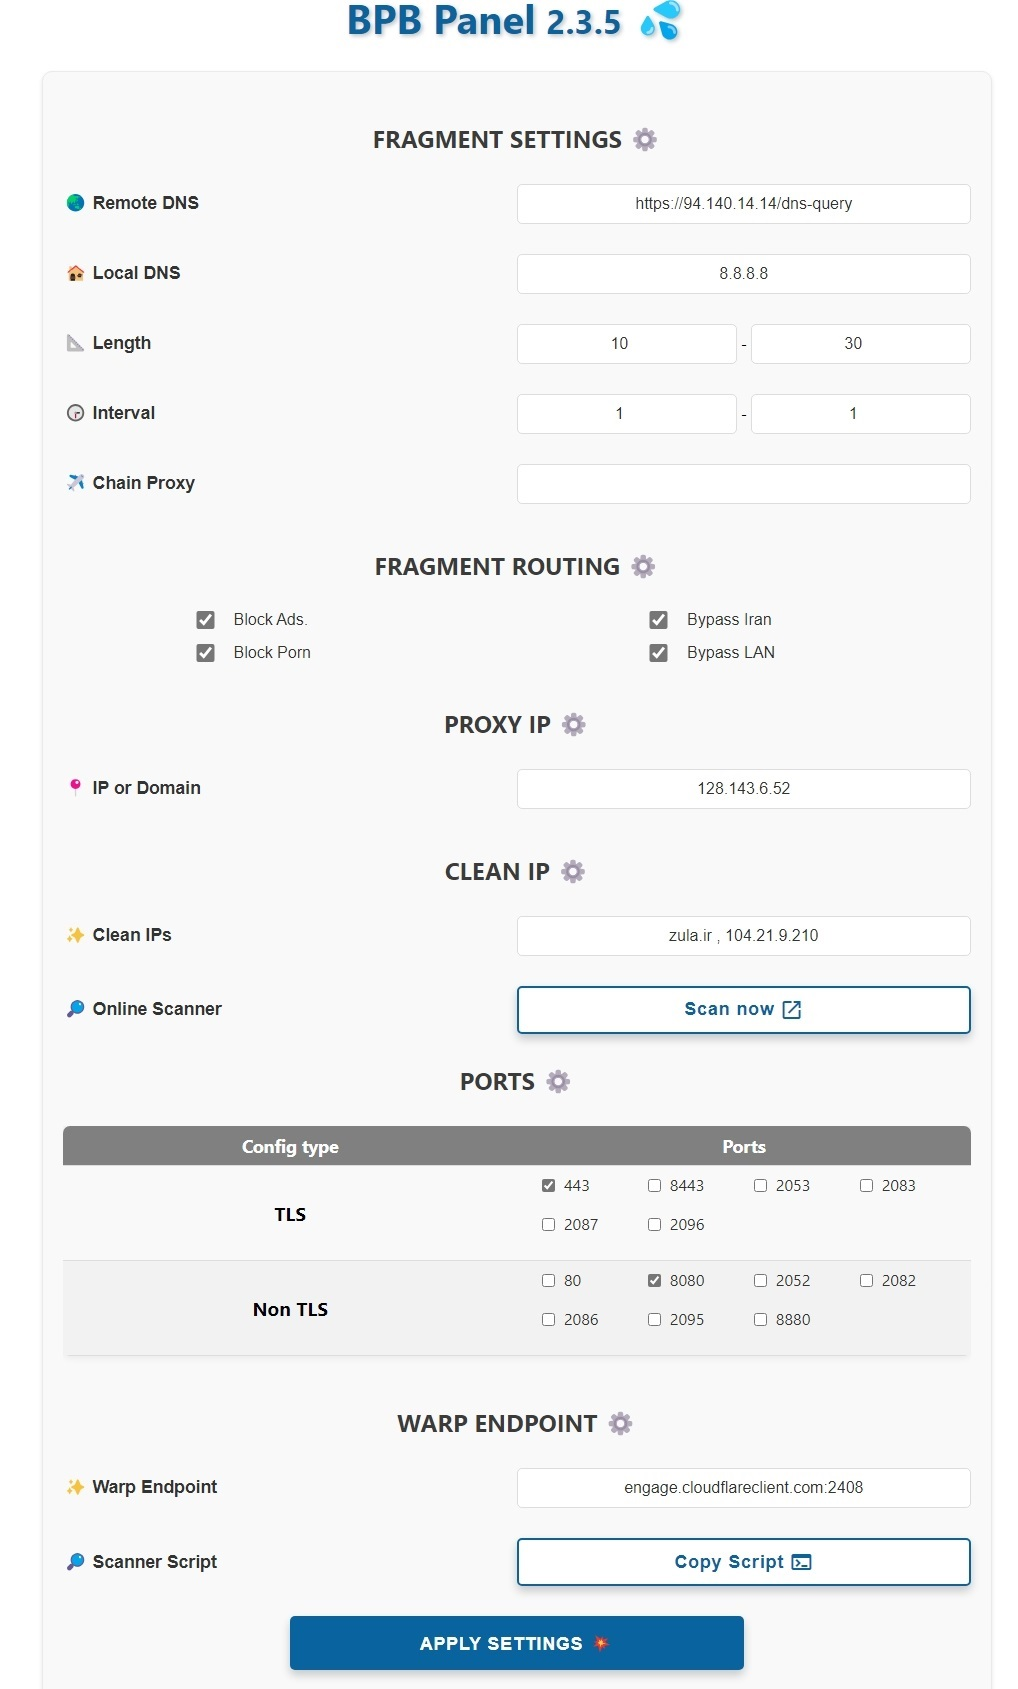
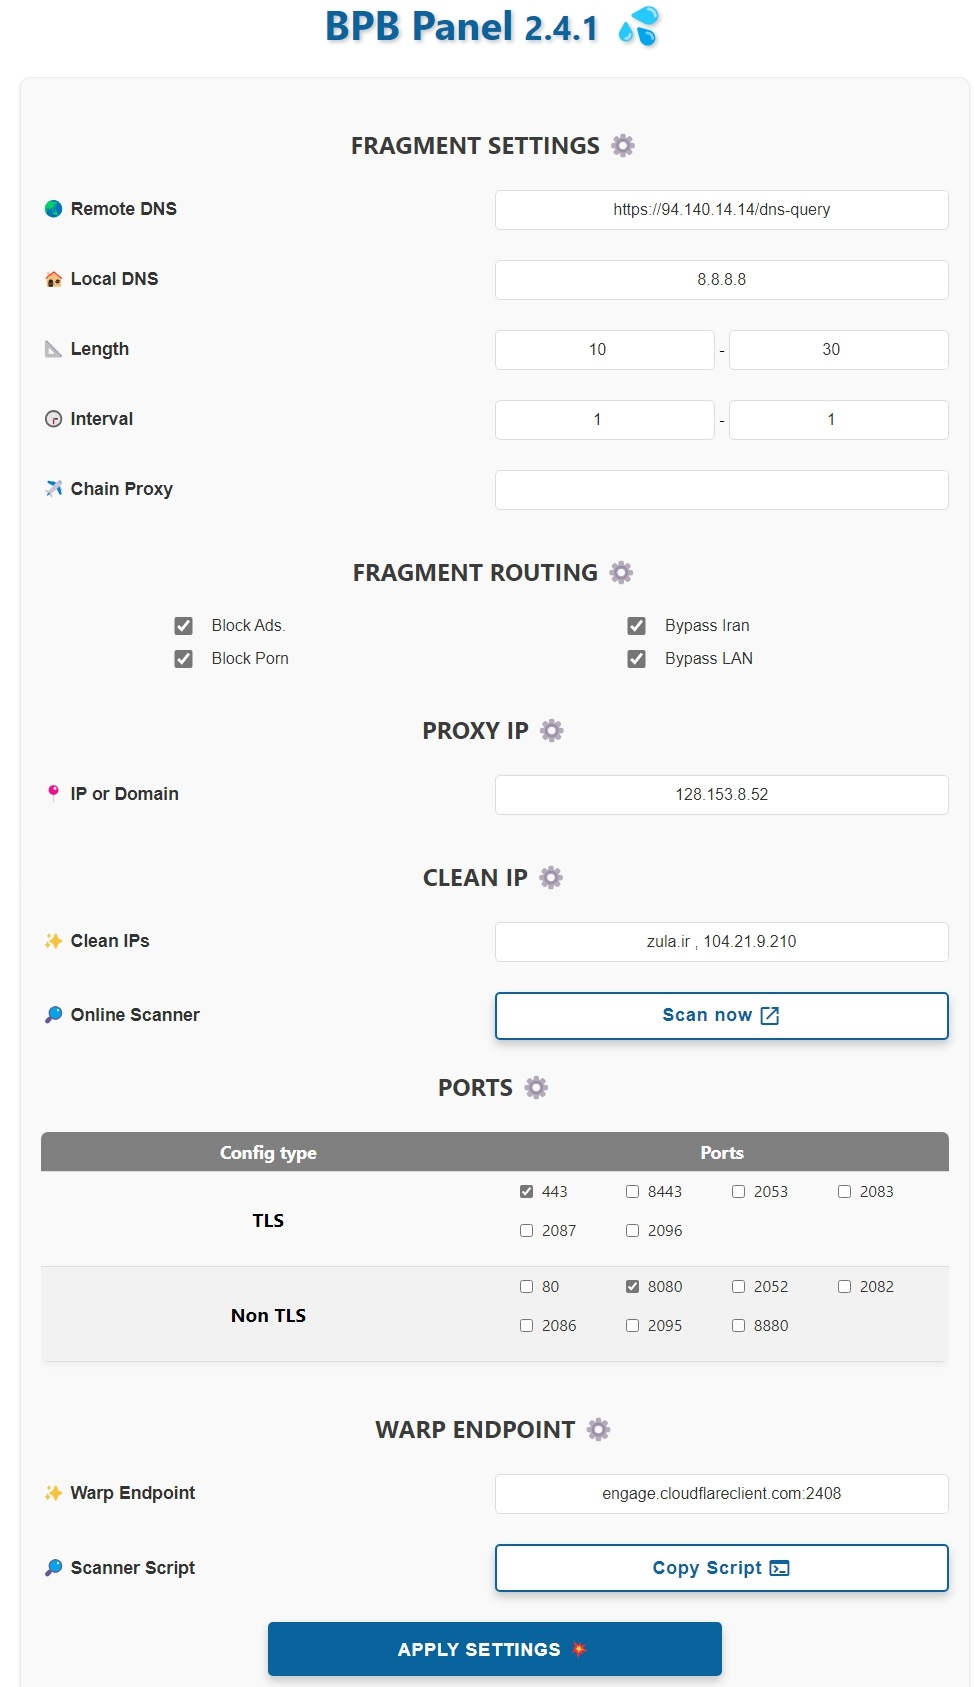
Updated Panel version.

diff --git a/_worker.js b/_worker.js
@@ -20,7 +20,7 @@ let proxyIP = proxyIPs[Math.floor(Math.random() * proxyIPs.length)];
 
 let dohURL = 'https://cloudflare-dns.com/dns-query';
 
-let panelVersion = '2.3.5';
+let panelVersion = '2.4.1';
 
 if (!isValidUUID(userID)) {
     throw new Error('uuid is not valid');
